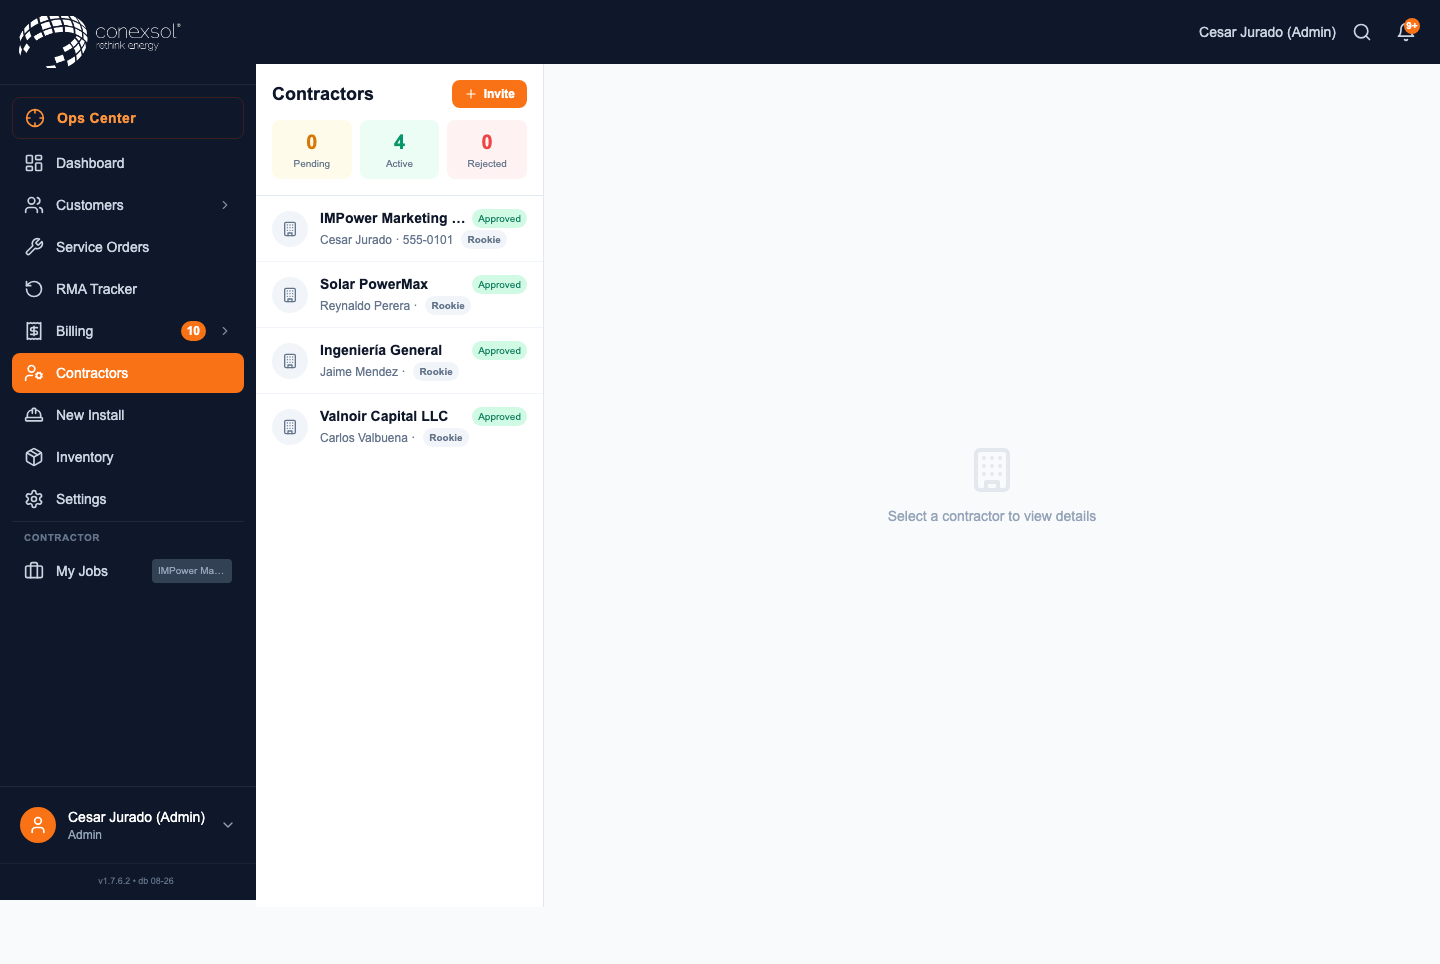
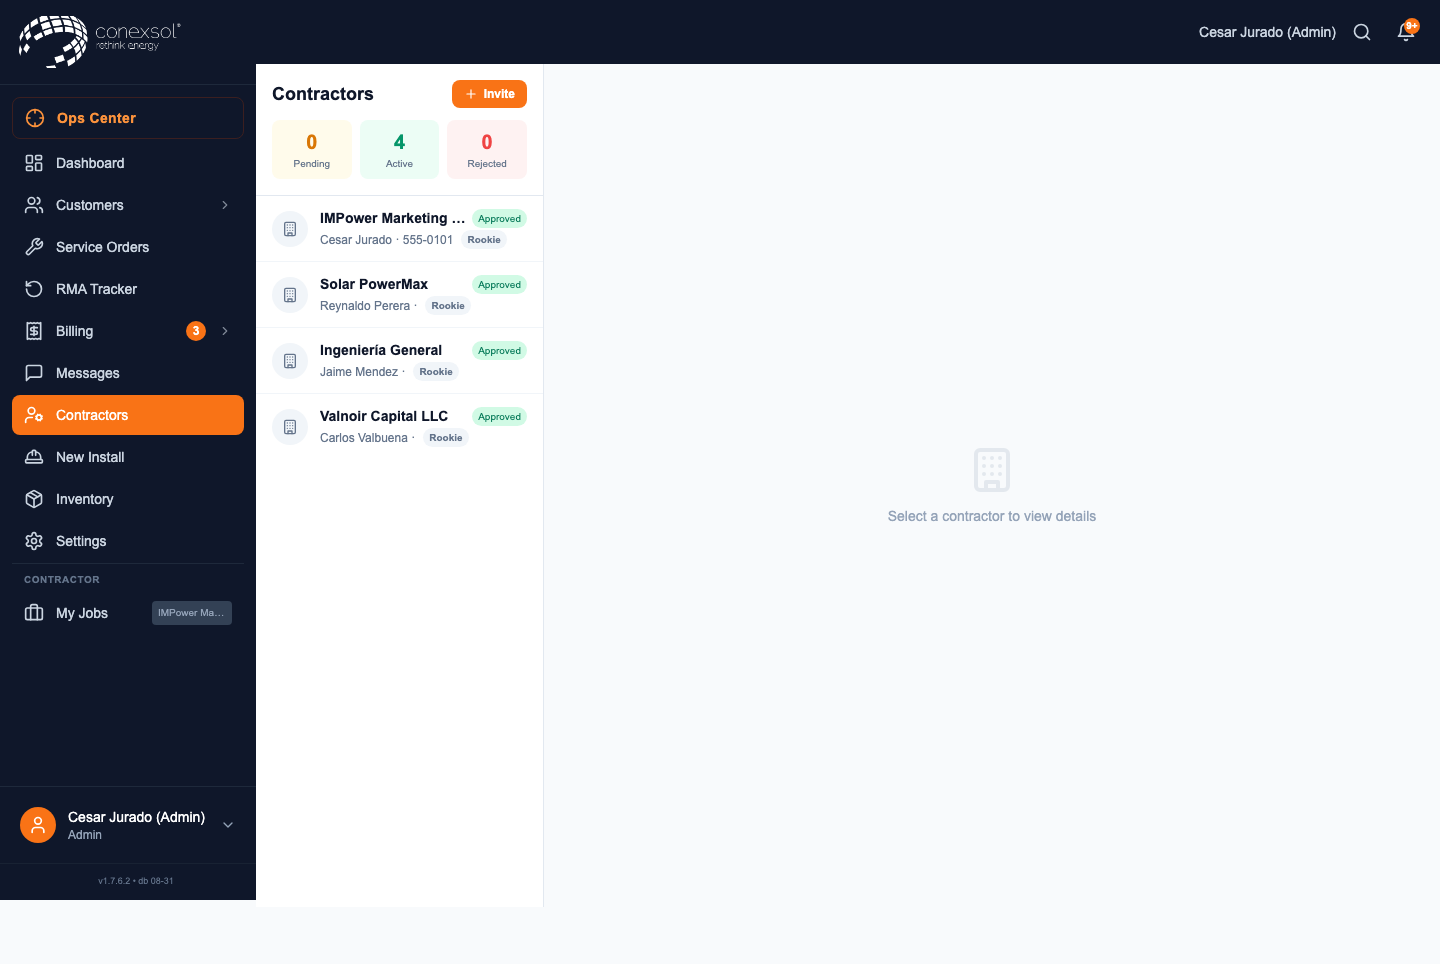
docs: 2026-08-31 deploy note + UI catalog refresh (07fef69)
Adds the messages screen to the UI manifest and recaptures the catalog
against production.

Changed region(s): [[0.0, 0.3423, 0.1875, 0.6535], [0.0938, 0.5602, 0.1875, 0.6535]]

diff --git a/2026-08-31.md b/2026-08-31.md
@@ -1,0 +1,88 @@
+# 2026-08-31
+
+## 07fef69 - Internal messenger (staff DMs + mentions inbox)
+
+**What shipped**
+
+A new **Messages** view in the staff nav: an internal messenger for staff-to-staff
+direct messages, with the existing @mentions inbox pinned into the same
+From -> To rail.
+
+- New `public.messages` table (migration `create_messages_table`):
+  `id, from_user, to_user, body, read, created_at`, FKs to `auth.users`,
+  indexes on `(from_user, to_user, created_at desc)` and `(to_user, read)`.
+- RLS: SELECT if you are the sender or the recipient, INSERT only as yourself,
+  UPDATE (the `read` flag) only as the recipient. **No DELETE policy**, so
+  messages are not client-deletable.
+- Added to the `supabase_realtime` publication. Delivery is a per-user
+  `postgres_changes` INSERT subscription filtered on `to_user`, copying the
+  `lib/notifications.ts` pattern exactly.
+
+**Files**
+
+- `solarflow-dashboard/src/lib/messenger.ts` (new) - fetch / send /
+  markThreadRead / subscribe.
+- `solarflow-dashboard/src/components/Messenger.tsx` (new) - left rail is the
+  From -> To list (one row per staff teammate with unread count, plus a pinned
+  Mentions row fed by `mentionsStore`), right pane is the thread + composer.
+  Enter sends, Shift+Enter newlines.
+- `solarflow-dashboard/src/components/Layout.tsx` - `Messages` nav item,
+  all staff roles + sales.
+- `solarflow-dashboard/src/App.tsx` - lazy import + `case 'messages'`.
+- `solarflow-dashboard/scripts/ui-screens.manifest.json` - new `messages` screen.
+
+**Two bugs found by verifying against the running app, not the diff**
+
+1. `data.currentUser` is `null` for the first renders after a reload, which
+   crashed the whole component on `currentUser.id`. Every hook now reads through
+   a `uid = currentUser?.id ?? ''` and the panel renders a loading state while
+   null. TypeScript did **not** catch this: the prop was typed `User` and
+   `data.currentUser` is `User | null`, and the build passed anyway.
+2. `data.users` still holds seeded demo rows with non-UUID ids
+   (`user-mia-lopez`) until `/api/users` lands. Messaging one returned
+   `400 invalid input syntax for type uuid`. The rail now filters to real auth
+   UUIDs via `isAuthUser()`.
+
+**Patterns worth reusing**
+
+- **RLS is verifiable from the browser with a real user JWT.** Grab the
+  `access_token` out of localStorage inside `page.evaluate`, capture the
+  `apikey` header off any Supabase request the app already made, then hit
+  PostgREST directly. Confirmed: insert `201`, select `200`, insert spoofing
+  another `from_user` -> **403**, client DELETE -> silent no-op. That last one is
+  the `app_data` tombstone trap again: **no DELETE policy returns HTTP 200 with
+  zero rows affected**, so the delete "succeeding" proves nothing. Verified by
+  SQL that the row survived.
+- **`vite dev` runs no Vercel functions, so `/api/users` returns index.html and
+  `data.users` never leaves its seed state locally.** A feature whose UI is
+  driven by the staff directory looks empty locally and correct in production.
+  Do not chase that as a bug; verify it against prod.
+- **A green build is not a null-safety gate here.** See bug 1.
+
+**Verification**
+
+- `npm run build` clean, `npx vitest run` 608 pass / 0 fail.
+- Live `version.json` = `v1.7.6.2+07fef69.1788189483396`, sha `07fef69`.
+- `/api/users` returns `401 Unauthorized` (a real serverless function, not a
+  Vercel `NOT_FOUND` page), so the functions built.
+- Enumerated the entry bundle's lazy chunks: `assets/Messenger-JsS-1xhb.js`
+  shipped and contains its real strings. A sha match alone would not have
+  proven a code-split view shipped.
+- Driven on production with a real login: 8 staff in the rail, no console
+  errors, correct on both the fresh-login and the reload path.
+- UI catalog refreshed against production (`--url=`), 24/25 screens.
+
+**Follow-ups**
+
+- **Open question for the user:** "mentions in there (using From - To)" was read
+  as *the messenger surfaces your @mention inbox alongside DMs*. If the intent
+  was that typing `@someone` inside a message body should fan out a
+  notification, that is a small addition on top of what shipped.
+- No unread badge on the `Messages` nav item. The existing badge mechanism is
+  the `badge: 'unbilled'` hook in `Layout.tsx`; a second badge type needs
+  plumbing. Counts do render per-person inside the rail.
+- Deliberately skipped: group threads, attachments, edit/delete, typing
+  indicators, per-thread pagination (500-message cap on the whole inbox).
+- `mentionsStore` is still **localStorage-only and not synced**, so the Mentions
+  side of this view is per-device. The DM side is server-backed. Worth closing
+  that gap if mentions start being read on more than one machine.

diff --git a/UI_SCREEN_CATALOG.md b/UI_SCREEN_CATALOG.md
@@ -2,14 +2,14 @@
 
 > Live visual map. Auto-generated by `solarflow-dashboard/scripts/capture-screens.mjs` (run via `/snap-ui` or on deploy). Do not hand-edit screenshots; edit `scripts/ui-screens.manifest.json` and re-run.
 
-_Last captured: 2026-08-26 - 23/24 screens - viewport 1440x900_
+_Last captured: 2026-08-31 - 24/25 screens - viewport 1440x900_
 
 Text-only routing reference: [UI_UX_SCREEN_MAP.md](UI_UX_SCREEN_MAP.md)
 
 ## Contents
 
 - **Authentication & Onboarding**: [Staff Login](#staff-login) / [Forgot Password](#forgot-password) / [Reset Password](#reset-password) / [Contractor Login](#contractor-login)
-- **Staff App (admin role)**: [Ops Center](#dispatch) / [Dashboard](#dashboard) / [Customers](#customers) / [SolarEdge Sites](#solaredge) / [SolarEdge Alerts Map](#solaredge-alerts-map) / [Work Orders](#jobs) / [LL Board (lead funnel)](#ll-board) / [Dispatch Map](#routes) / [RMA Tracker](#rma) / [Billing](#billing) / [Billing (Kanban)](#billing-kanban) / [Contractor Pay](#contractor-billing) / [Service Rates](#rates) / [Contractors](#contractors) / [New Install](#projects) / [Inventory](#inventory) / [Settings](#settings)
+- **Staff App (admin role)**: [Ops Center](#dispatch) / [Dashboard](#dashboard) / [Customers](#customers) / [SolarEdge Sites](#solaredge) / [SolarEdge Alerts Map](#solaredge-alerts-map) / [Work Orders](#jobs) / [LL Board (lead funnel)](#ll-board) / [Dispatch Map](#routes) / [RMA Tracker](#rma) / [Billing](#billing) / [Billing (Kanban)](#billing-kanban) / [Contractor Pay](#contractor-billing) / [Service Rates](#rates) / [Messages (Internal Messenger)](#messages) / [Contractors](#contractors) / [New Install](#projects) / [Inventory](#inventory) / [Settings](#settings)
 - **Sales Role**: [Sales CRM](#crm) / [Clients (Sales)](#customers2)
 - **Contractor Portal**: [Contractor Dashboard](#my-jobs)
 
@@ -162,7 +162,7 @@ Text-only routing reference: [UI_UX_SCREEN_MAP.md](UI_UX_SCREEN_MAP.md)
 _(capture failed: page.reload: Timeout 30000ms exceeded.
 Call log:
   - waiting for navigation until "networkidle"
-    - navigated to "http://localhost:5173/"
+    - navigated to "https://solarflow-dashboard-sooty.vercel.app/"
 )_
 
 ---
@@ -224,6 +224,18 @@ Call log:
 - **Detail:** contractor/RateManagement. Rate cards per service type.
 
 ![Service Rates](ui-catalog/screens/admin/rates.png)
+
+---
+
+## Messages (Internal Messenger)
+
+<a id="messages"></a>
+
+- **id:** `messages` (view `messages`)
+- **Macro:** undefined
+- **Detail:** undefined
+
+![Messages (Internal Messenger)](ui-catalog/screens/admin/messages.png)
 
 ---
 
